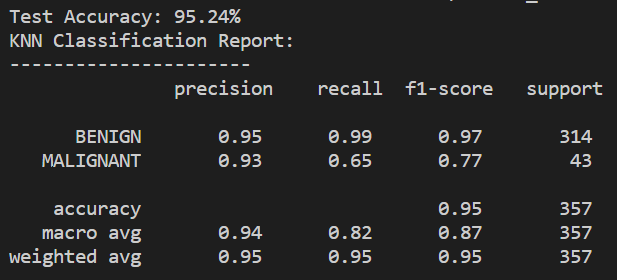
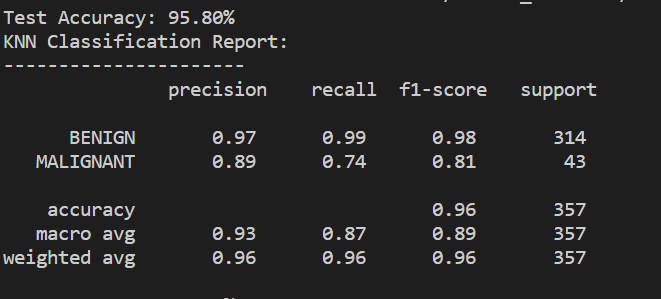
Final

diff --git a/src/project.py b/src/project.py
@@ -27,17 +27,29 @@ from keras.models import Sequential
 from keras.optimizers import Adam
 from scipy.stats import ttest_rel
 
+def display_label(y):
+    # Display the distribution of benign and malicious websites
+    y_1 = []
+    y_0 = []
+    for i in y:
+        if i == 0:
+            y_0.append(i)
+        else:
+            y_1.append(i)
+    plt.hist(y_0,range=(0,1))
+    plt.hist(y_1,range=(0,1))
+    plt.title("Histogram of Benign and Malicious Website")
+    plt.legend(["Benign", "Malicious"])
+    plt.show()
+
 def onehot_encode(dataset, column_dict):
     dataset = dataset.copy()
     for column, prefix in column_dict.items():
         dummies = pd.get_dummies(dataset[column], prefix=prefix)
         dataset = pd.concat([dataset, dummies], axis=1)
         dataset = dataset.drop(column, axis=1)
-        # print(dummies)
     return dataset
 
- 
-    #Find the unique values in the column “feature_name”
     values = data[feature_name].unique()
 
     entropy=0
@@ -50,11 +62,14 @@ def onehot_encode(dataset, column_dict):
     
 def pretreatment(dataset, no_input, seed):
     dataset = dataset.copy()
+
+    # ---------------------------------Step 1----------------------------------------
     # Drop the URL column, because it is only the id for the URL, no real significance
     dataset = dataset.drop('URL', axis=1)
-        
-    # # ---------------------------------Date transform version 1--------------------------------
-    # # Extract datetime features
+
+    # ---------------------------------Step 2----------------------------------------     
+    # ---------------------------------Date transform--------------------------------
+    # Extract datetime features
     for column in ['WHOIS_REGDATE', 'WHOIS_UPDATED_DATE']:
         dataset[column] = pd.to_datetime(dataset[column], errors='coerce')
     
@@ -70,27 +85,11 @@ def pretreatment(dataset, no_input, seed):
     dataset['UPD_HOUR'] = dataset['WHOIS_UPDATED_DATE'].apply(lambda x: x.hour)
     dataset['UPD_MINUTE'] = dataset['WHOIS_UPDATED_DATE'].apply(lambda x: x.minute)
     
-    
-    # ---------------------------------Date transform version 2--------------------------------
-    # for column in ['WHOIS_REGDATE', 'WHOIS_UPDATED_DATE']:
-    #     dataset[column] = pd.to_datetime(dataset[column], errors='coerce')
-    # dataset['REG_YEAR'] = dataset['WHOIS_REGDATE'].apply(lambda x: x.year)
-    # dataset['UPD_YEAR'] = dataset['WHOIS_UPDATED_DATE'].apply(lambda x: x.year)
-    # dataset['REG_MONTH'] = dataset['WHOIS_REGDATE'].apply(lambda x: x.month)
-    # dataset['UPD_MONTH'] = dataset['WHOIS_UPDATED_DATE'].apply(lambda x: x.month)
-    # dataset['REGINFO'] = dataset['WHOIS_REGDATE'].apply(lambda x: 1 if x != 'None' else 0)
-    # dataset['UPDINFO'] = dataset['WHOIS_UPDATED_DATE'].apply(lambda x: 1 if x != 'None' else 0)
-
-    # dataset['NO_UPD'] = dataset['UPDINFO'].copy()
-    # for i in range(len(dataset['REGINFO'])):
-    #     if dataset['REGINFO'].iloc[i] == 1 and dataset['UPDINFO'].iloc[i] == 0:
-    #         dataset['NO_UPD'].iloc[i] = 1
-    #     else:
-    #         dataset['NO_UPD'].iloc[i] = 0
         
     dataset = dataset.drop(['WHOIS_REGDATE', 'WHOIS_UPDATED_DATE'], axis=1)
 
-    # One-hot encode categorical features
+    # ---------------------------------Step 3----------------------------------------
+    # -------------------------One-hot encode categorical features-------------------
     for column in ['CHARSET', 'SERVER', 'WHOIS_COUNTRY', 'WHOIS_STATEPRO']:
         dataset[column] = dataset[column].apply(lambda x: x.lower() if str(x) != 'nan' else x)
     
@@ -103,13 +102,8 @@ def pretreatment(dataset, no_input, seed):
             'WHOIS_STATEPRO': 'WS'
         }
     )
-    
-    # ---------------------------------Fill missing values version 1--------------------------------
-    # missing_value_columns = dataset.columns[dataset.isna().sum() > 0]
-    # for column in missing_value_columns:
-    #     dataset[column] = dataset[column].fillna(dataset[column].mean())
-
-    # ---------------------------------Fill missing values version 2--------------------------------
+    # ---------------------------------Step 4----------------------------------------
+    # ---------------------------------Fill missing values--------------------------------
     missing_value_columns = dataset.columns[dataset.isna().sum() > 0]
     date_miss = missing_value_columns[2::]
     other_features = missing_value_columns[0:2]
@@ -118,7 +112,7 @@ def pretreatment(dataset, no_input, seed):
     for column in date_miss:
         dataset[column] = dataset[column].fillna(0)
 
-
+    # ---------------------------------Step 5----------------------------------------
     # ---------------------------------Normalization-----------------------------------
     y = dataset['Type'].copy()
     X = dataset.drop('Type', axis=1).copy()
@@ -146,6 +140,9 @@ def pretreatment(dataset, no_input, seed):
     return X_train, X_test, y_train, y_test, X, y
 
 def evaluate_logistic_regression(X_test, y_test, X_train, y_train):
+    # The model of logistic regression
+    # Use the model degree = 2
+
     model = LogisticRegression(max_iter=1000)
     poly = PolynomialFeatures(degree = 2)
     X_poly = poly.fit_transform(X_train)
@@ -182,6 +179,9 @@ def evaluate_random_forest(X_test, y_test, X_train, y_train):
     return y_pred.tolist()
 
 def evaluate_KNN(X_test, y_test, X_train, y_train):
+    # KNN model
+
+    # ---------------------------------Find the best k----------------------------------------
     # modelskNN=[]
     # modelskNN.append(('1', KNeighborsClassifier(n_neighbors=1)))
     # modelskNN.append(('3', KNeighborsClassifier(n_neighbors=3)))
@@ -212,6 +212,9 @@ def evaluate_KNN(X_test, y_test, X_train, y_train):
     return y_pred.tolist()
 
 def evaluate_neural(X_test, y_test, X_train, y_train, no_input, layer_1, layer_2, layer_3):
+    # Neural Network Model
+    # Feature used = 148
+    # Hidden layer 50-70-50
     model = Sequential()
     model.add(Dense(layer_1, input_dim=no_input, activation='relu'))
     model.add(Dense(layer_2, activation='relu'))
@@ -232,14 +235,15 @@ def evaluate_neural(X_test, y_test, X_train, y_train, no_input, layer_1, layer_2
     return metrics.f1_score(y_test, y_pred, average=None), y_pred.tolist()
 
 def find_no_input_feature():
+    # Find the best number of input features for neural network
     step = 3
     output_score = 0
     res = 0
 
-    for no_input in range(133,149,step):    
+    for no_input in range(10,474,step):    
         score = []
         for i in range(5):    
-            X_train, X_test, y_train, y_test, X, y = pretreatment(dataset, no_input)
+            X_train, X_test, y_train, y_test, X, y = pretreatment(dataset, no_input, i)
             score.append(evaluate_neural(X_test, y_test, X_train, y_train, no_input, 150, 100, 50)[0])
 
         if  output_score < mean(score):
@@ -253,7 +257,8 @@ def find_no_input_feature():
 
 
 def find_no_nodes():
-    step = 20
+    # find the best number of nodes for neural network
+    step = 10
     output_score = 0
     res = []
     open("record.txt", "w")
@@ -277,6 +282,7 @@ def find_no_nodes():
                     print("Output_no_nodes = ", res)   
 
 def vote(rd_res, neural_res, y_test):
+    # Do the combination of the result of random forest and neural network
     res = []
     neural_int_res = []
     for i in range(len(rd_res)):
@@ -295,37 +301,17 @@ def vote(rd_res, neural_res, y_test):
     clr = classification_report(y_true, res, target_names=["BENIGN", "MALIGNANT"])
     
     print("Final Classification Report:\n----------------------\n", clr, "\n")
-    
-def display_label(y):
-    y_1 = []
-    y_0 = []
-    for i in y:
-        if i == 0:
-            y_0.append(i)
-        else:
-            y_1.append(i)
-    plt.hist(y_0,range=(0,1))
-    plt.hist(y_1,range=(0,1))
-    plt.title("Histogram of Benign and Malicious Website")
-    plt.legend(["Benign", "Malicious"])
-    plt.show()
+
 
 
 names = ['URL','URL_LENGTH', 'NUMBER_SPECIAL_CHARACTERS', 'CHARSET', 'SERVER','CONTENT_LENGTH','WHOIS_COUNTRY', 'WHOIS_STATEPRO', 'WHOIS_REGDATE', 'WHOIS_UPDATED_DATE', 'TCP_CONVERSATION_EXCHANGE','DIST_REMOTE_TCP_PORT', 'REMOTE_IPS', 'APP_BYTES', 'SOURCE_APP_PACKETS', 'REMOTE_APP_PACKETS','SOURCE_APP_BYTES','REMOTE_APP_BYTES','APP_PACKETS','DNS_QUERY_T','Type']
 dataset = pd.read_csv("dataset.csv", header=0, names=names)
 
 
-no_input = 160
-seed = 2
+no_input = 148
+seed = 3
 X_train, X_test, y_train, y_test, X, y = pretreatment(dataset, no_input, seed)
 
-evaluate_KNN(X_test, y_test, X_train, y_train)
-
-# display_label(y)
-# find_no_input_feature()
-# find_no_nodes()
-
-# vote(evaluate_random_forest(X_test, y_test, X_train, y_train), evaluate_neural(X_test, y_test, X_train, y_train, no_input, 50, 70, 50)[1], y_test)
-
+vote(evaluate_random_forest(X_test, y_test, X_train, y_train), evaluate_neural(X_test, y_test, X_train, y_train, no_input, 50, 70, 50)[1], y_test)
 
 

diff --git a/Report.md b/Report.md
@@ -2,13 +2,13 @@
 
 ## Ⅰ. Introduction
 
-In this project, we analyze the detection of malicious and benign websites based on the URL information. We will use four machine learning (KNN, Random Forest, Logistic Regression, Neural Network)methods and compare their results to build an optimal machine learning model.
+In this project, we analyze the detection of malicious and benign websites based on the URL information. We will use four machine learning (KNN, Random Forest, Logistic Regression, Neural Network) methods and compare their results to build an optimal machine learning model.
 
 ## Ⅱ. Dataset Used
 
-In this project, we use the dataset which is created by Christian Urcuqui in Malicious and Benign Websites classify by application and network features. Unfortunately, there is a lack of datasets with malicious and benign web characteristics, especially for malicious websites. We can look at the following figure, it is the histogram of benign and malicious website. We have a not bad number of benign websites, but for the number of malicious website is really not enough. Finally, we have 1565 samples for benign website and 216 for malicious websites. 
+In this project, we use the dataset which is created by Christian Urcuqui in Malicious and Benign Websites classify by application and network features. Unfortunately, there is a lack of datasets with malicious and benign website, especially for malicious websites. We can look at the following figure, it is the histogram of benign and malicious website. We have a not bad number of benign websites, but for the number of malicious website is really not enough. Finally, we have 1565 samples for benign website and 216 for malicious websites. 
 <div align = 'center'>	
-<img src="images\hist.png" alt="1200" style="zoom:30%;" /></div>
+<img src="images/hist.png" alt="1200" style="zoom:50%;" /></div>
 
 ## Ⅲ. Features Used
 
@@ -58,33 +58,39 @@ In this dataset, there are 21 features, the first feature is URL which is just t
 
 In these dataset, we can't take this data and do machine learning directly, because of these features, not all data are composed of numerical data and binary data. Therefore, we need to transform these features that cannot be applied to machine learning into forms that can be adapted to our model. For the pretreatment, we break it down into five steps:
 
-#### 1. Remove unused features
+### 1. Remove unused features
 
-In these 21 features, the first feature "URL" is just a ID which is no practical significance for our machine learning. Hence, we remove this feature at first.
+In these 21 features, the first feature "URL" is just a ID which is no practical significance for our machine learning. Hence, I remove this feature at first.
 
-#### 2. Transform textual data into binary data by one-hot encoding
+### 2. Transform textual data into binary data by one-hot encoding
 
-The data in 'CHARSET', 'SERVER', 'WHOIS_COUNTRY', 'WHOIS_STATEPRO' are text. In order to fit our machine learning model, we use One Hot Encoding, the value of the discrete feature is extended to the Euclidean space, and a value of the discrete feature corresponds to a point in the Euclidean space. In other word, we use a vector which is composed by 0 and 1. If the value is 1, it means the associated textual feature is present in this sample.
+The data in 'CHARSET', 'SERVER', 'WHOIS_COUNTRY', 'WHOIS_STATEPRO' are text. In order to fit our machine learning model, I use One Hot Encoding, the value of the discrete feature is extended to the Euclidean space, and a value of the discrete feature corresponds to a point in the Euclidean space. In other word, I use a vector which is composed by 0 and 1. If the value is 1, it means the associated textual feature is present in this sample.
 
-#### 3. Extracting information from time
+### 3. Extracting information from time
 
-'WHOIS_REGDATE' and 'WHOIS_UPDATED_DATE' are the information of time. They include year, month, day, hour and minute information. We extract these information to compose six new features which are in numerical form.
+'WHOIS_REGDATE' and 'WHOIS_UPDATED_DATE' are the information of time. They include year, month, day, hour and minute information. I extract these information to compose six new features which are in numerical form.
 
-#### 4. Fill in the None Information
+### 4. Fill in the None Information
 
-We use two ways to manage the None information. For the None in 'content_length' and 'DNS_query_Times', I fill it with the average. For the 'whois_updated_date' and 'whois_regdate', I fill it with 0. Because WHOIS is a database used to find out whether a domain name has been registered, and the details of the registered domain name. If the whois information is None, it means the domain name is not in the whois database. Therefore, 0 is more suitable in this case.
+I use two ways to manage the None information. For the None in 'content_length' and 'DNS_query_Times', I fill it with the average. For the 'whois_updated_date' and 'whois_regdate', I fill it with 0. Because WHOIS is a database used to find out whether a domain name has been registered, and the details of the registered domain name. If the whois information is None, it means the domain name is not in the whois database. Therefore, 0 is more suitable in this case.
 
-#### 5. Normalization
+### 5. Normalization
 
 The final step of the pretreatment is normalization. The data in different magnitude greatly affects the results of machine learning, especially in the model for example KNN. It causes different features to have different degrees of influence on the results. Therefore, normalization is the last and integral step.
 
+In conclusion, I have 474 features to complete the following research
+
 ## Ⅴ. Model Build
 
-We create four model in our project: KNN, Logistic Regression, Random Forest and Neural Network. For the comparison of the result, we will not use accuracy. Because our dataset is unevenly distributed, the ratio of benign websites to malicious websites is about 8 : 1. Even though our model judges that all websites are benign websites, we will also have the result in high accuracy . Therefore, this metric doesn't has enough signification.
+I create four model in our project: KNN, Logistic Regression, Random Forest and Neural Network. For the comparison of the result, I will not use accuracy. Because our dataset is unevenly distributed, the ratio of benign websites to malicious websites is about 8 : 1. Even though our model judges that all websites are benign websites, I will also have the result in high accuracy . Therefore, this metric doesn't has enough signification.
 
-In this case, we choose F1-score as our judgment basis. Because for example the research of malicious websites, precision is the rate that the real malicious websites in the detected malicious websites, recall is the rate that the detected real malicious websites in all the real malicious websites. F1-score is a harmonized average of precision and recall. We use the average of F1-score of benign website and F1-score of malicious website as the final metric of our evaluation of model. This can eliminate the problem of inaccurate judgment of results caused by uneven data distribution.
+In this case, I choose F1-score as our judgment basis. Because for example the research of malicious websites, precision is the rate that the real malicious websites in the detected malicious websites, recall is the rate that the detected real malicious websites in all the real malicious websites. F1-score is a harmonized average of precision and recall. I use the average of F1-score of benign website and F1-score of malicious website as the final metric of our evaluation of model. This can eliminate the problem of inaccurate judgment of results caused by uneven data distribution.
 
-#### 1. KNN
+In addition, it is worth noting that in the study, I often find some parameters most suitable for our dataset through Cross Validation, such as number of K in KNN, etc. In the process of grouping with K-fold,I must use Stratified for that the proportion of malicious websites and Benign websites contained in each fold is the same as that in the total dataset, so as to prevent too many samples of one category in a certain fold from leading to large errors in the final results. 
+
+In the comparison of these model, I use the same seed for the split of training data and validation data.
+
+### 1. KNN
 
 KNN is one of the simplest machine learning models. The idea of this method is very simple and intuitive: if most of the K most similar (the closest in the feature space) samples of a sample belong to a certain category, then the sample also belongs to this category. In the classification decision, the method only determines the category of the samples to be divided according to the category of the nearest one or several samples. 
 
@@ -93,8 +99,67 @@ In this method, the most important parameter is k which is number of nearest nei
 <div align = 'center'>	
 <img src="images/KNN.png" style="zoom:70%;" />
 </div>
-This figure is a result of complete process of training and then validation. In this result, we can do a conclusion that KNN performs very well in the test of benign websites, with the F1-score reaching 0.97, but the test of malicious websites is relatively not excellent enough. The Recall value is only 0.65, which means that there are many malicious sites that have not been detected. We think this is directly related to the lack of samples of malicious websites.
+This figure is a result of complete process of training and then validation. In this result, I can do a conclusion that KNN performs very well in the test of benign websites, with the F1-score reaching 0.98, but the test of malicious websites is relatively not excellent enough. The Recall value is only 0.74, which means that there are many malicious sites that have not been detected. I think this is directly related to the lack of samples of malicious websites.
 
-#### 2. Logistic Regression
+### 2. Logistic Regression
 
-Logistic Regression is a very common model for the classification problem. 
+Logistic Regression is a very common model for the classification problem. In this model, I need to study which degree is the most suitable for our dataset with 5-fold cross validation. I have tested degree = 1, 2, 3, but because the number of features is too large so that the model is difficult to converge for degree = 3 and the training time is very long. In the comparison between degree=1 and degree=2, degree=2 gets a more excellent result.
+
+Then I use 2-degree logistic regression to do the test. This is our result:
+
+<div align = 'center'>	
+<img src="images/Logistic_regression.png" style="zoom:70%;" />
+</div>
+According to the above results, I can see that the final result is similar to the result of KNN, and the detection of such malicious websites is still insufficient. But on the other hand, since our ultimate goal is to detect malicious websites. Therefore, logistic regression has a higher recall, that is, more real malicious websites are found. From this point of view, I are more inclined to choose the Logistic regression
+
+### 3. Random Forest
+
+In machine learning, random forest is a classifier containing multiple decision trees, and its output category is determined by the vote of the category output by the individual tree. Compared with logistic regression, the learning process of random forest is faster, and it is not easily affected by over-fitting. In many fields, random forest performs very well. For example, in the detection of phishing email, random forest is one of the best machine learning methods. The results are shown in the figure below:
+<div align = 'center'>	
+<img src="images/rd.png" style="zoom:70%;" />
+</div>
+I can see that this is a very interesting result. The recall of Benign website and the precision of malicious website can even reach 1.00.  I can conclude that as long as it is a malicious website detected by the random forest, it has a very high probability of being a really malicious website. On the contrary, I can't trust a website that has not been detected by random forest.
+
+### 4.  Neural Network
+
+So far, I have not found a model that can really detect enough malicious websites. I try to use neural network. This is a more complex model than the other three approaches. In the hidden layer, I cannot know how it combines and assembles these features. It's hard to understand what it actually means in the hidden layer, but with a lot of data to train, the model tends to give us good results. 
+
+For reducing the training time, I use chi-square to do a rank of features. At first, I want to use the combination of T-student test and cross validation to decide when the result is no longer affected by the new feature. But it is not suitable in our project. Because the influence of each feature on the result is not very great. Even though my critical value is very low, it can still judge that the result is no longer dependent on the new feature when there are few features. But the final F1-score is far below the result of 474 features. Therefore, I chose to use trial and error method to continuously add new features according to the ranking, until I found the one number with the highest of F1-Score.  Finally, I use the first 148 features with the most information gain. 
+
+I use a 3-layers model. The number of nodes per layer will have a significant impact on the final result of the model. Following the above method, I find the group of number of nodes in each layer with the highest F1-score between 10 and 150 with step = 10. Finally, I use 50-70-50 as the hidden layers. 
+
+For finding these parameter, the time used is about 6 hours.
+
+The following figure is the final result of the neural network we built：
+
+<div align = 'center'>	
+<img src="images/neural.png" style="zoom:70%;" />
+</div>
+
+From the final result, it can be seen that through neural network, it can find more malicious websites that cannot be found in other models. I think this is the biggest advantage of neural network. As a function similar to firewall, finding problems is far more important than mistake of detection. Therefore, compared with random forest, neural network is better.
+
+## Ⅵ. Combination of Results
+
+Generally, different models have their own unique advantages. Therefore, I want to combine the result of each model to try to make some improvements. This is the final algorithm of the combination:
+
+```python
+for i in range(number_of_data):
+    if result_random_forest[i] or result_neural_network[i] == 1:
+        final_result[i] = 1
+    else:
+        final_result[i] = 0
+```
+
+As we know, neural network can detect more malicious websites compared with other models. Therefore, I want to build the final result on the basis of neural network. In addition, since Random Forest has almost 100% precision, I would like to make a supplement with the result of Random Forest. 
+
+In fact, I also tried to add the results of KNN and Logistic Regression in my combination by many ways, but they often give a negative impact, so I had to give them up.
+
+<div align = 'center'>	
+<img src="images/Final.png" style="zoom:70%;" />
+</div>
+
+In this final result, it has the same result with neural network. It is because all the malicious website which is detected by random forest has been detected by neural network. Therefore, the result of random forest is mainly for the purpose of supplement, and it does not necessarily affect the final result.
+
+## Ⅶ. Conclusion
+
+Through our study, we have obtained good results. In the test of Benign website, we can obtain a F1-score = 0.98. However, due to the insufficient data of malicious websites in Dataset, the detection result of our malicious website is not ideal enough. As far as I am concerned, the key point of future work should be to collect more malicious website data and apply it to machine learning in order to obtain a better model.
